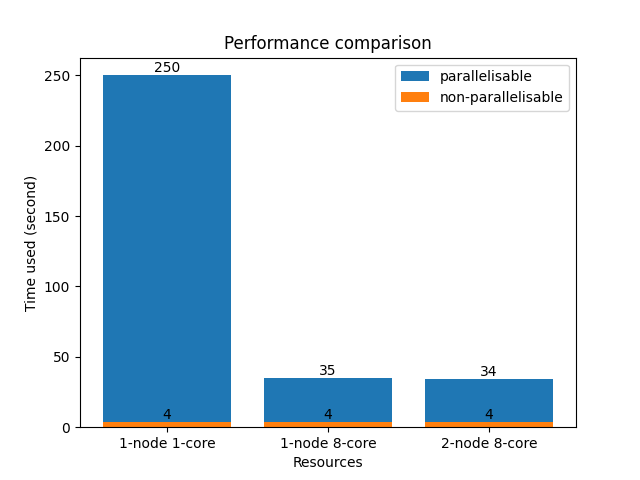
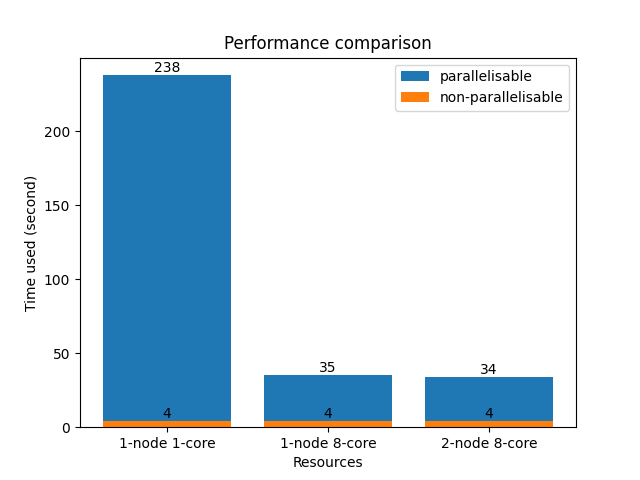
Update performance plot

diff --git a/ref/cf.py b/ref/cf.py
@@ -1,7 +1,7 @@
 import matplotlib.pyplot as plt
 
 x = ['1-node 1-core', '1-node 8-core', '2-node 8-core']
-y = [250, 35, 34]
+y = [238, 35, 34]
 time_seq = round(34.5 - (250 - 34.5) / 7)
 y_seq = [time_seq] * 3
 
